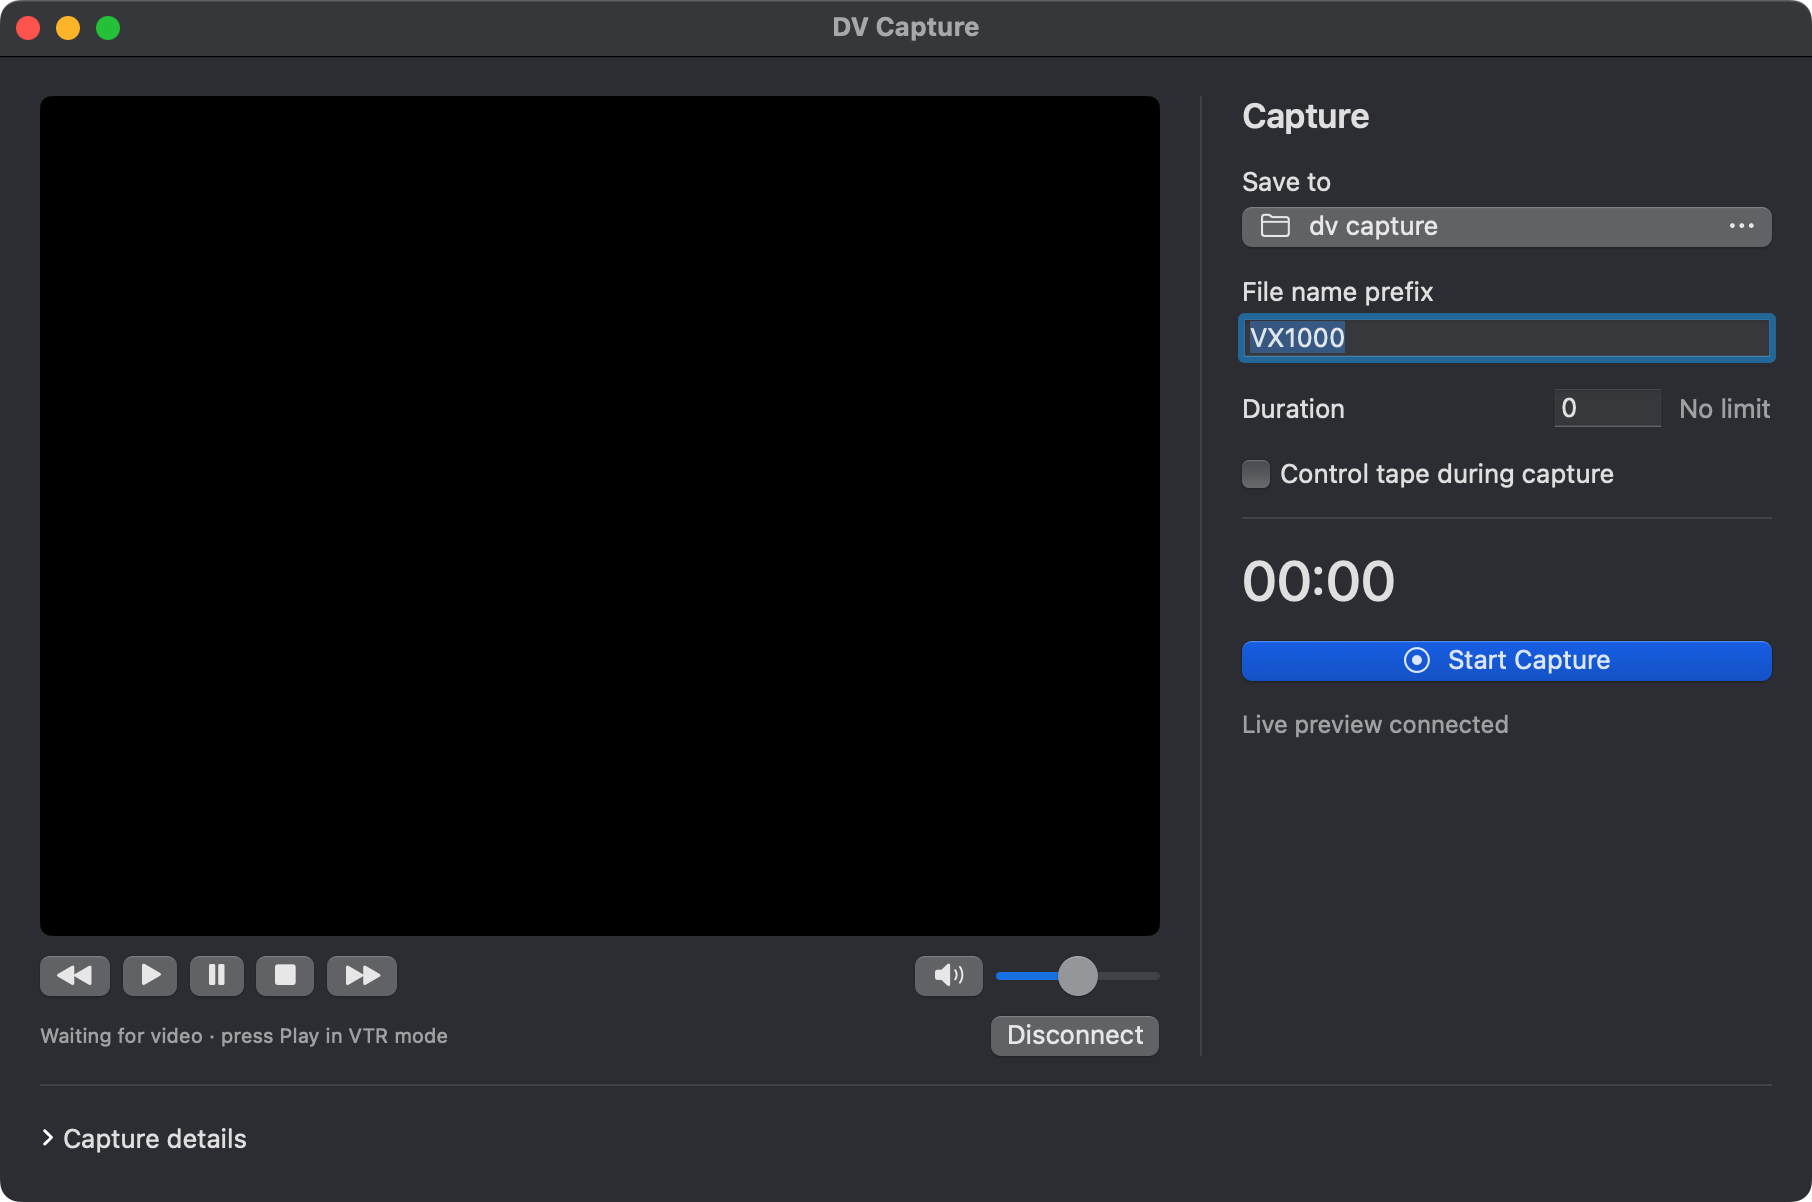
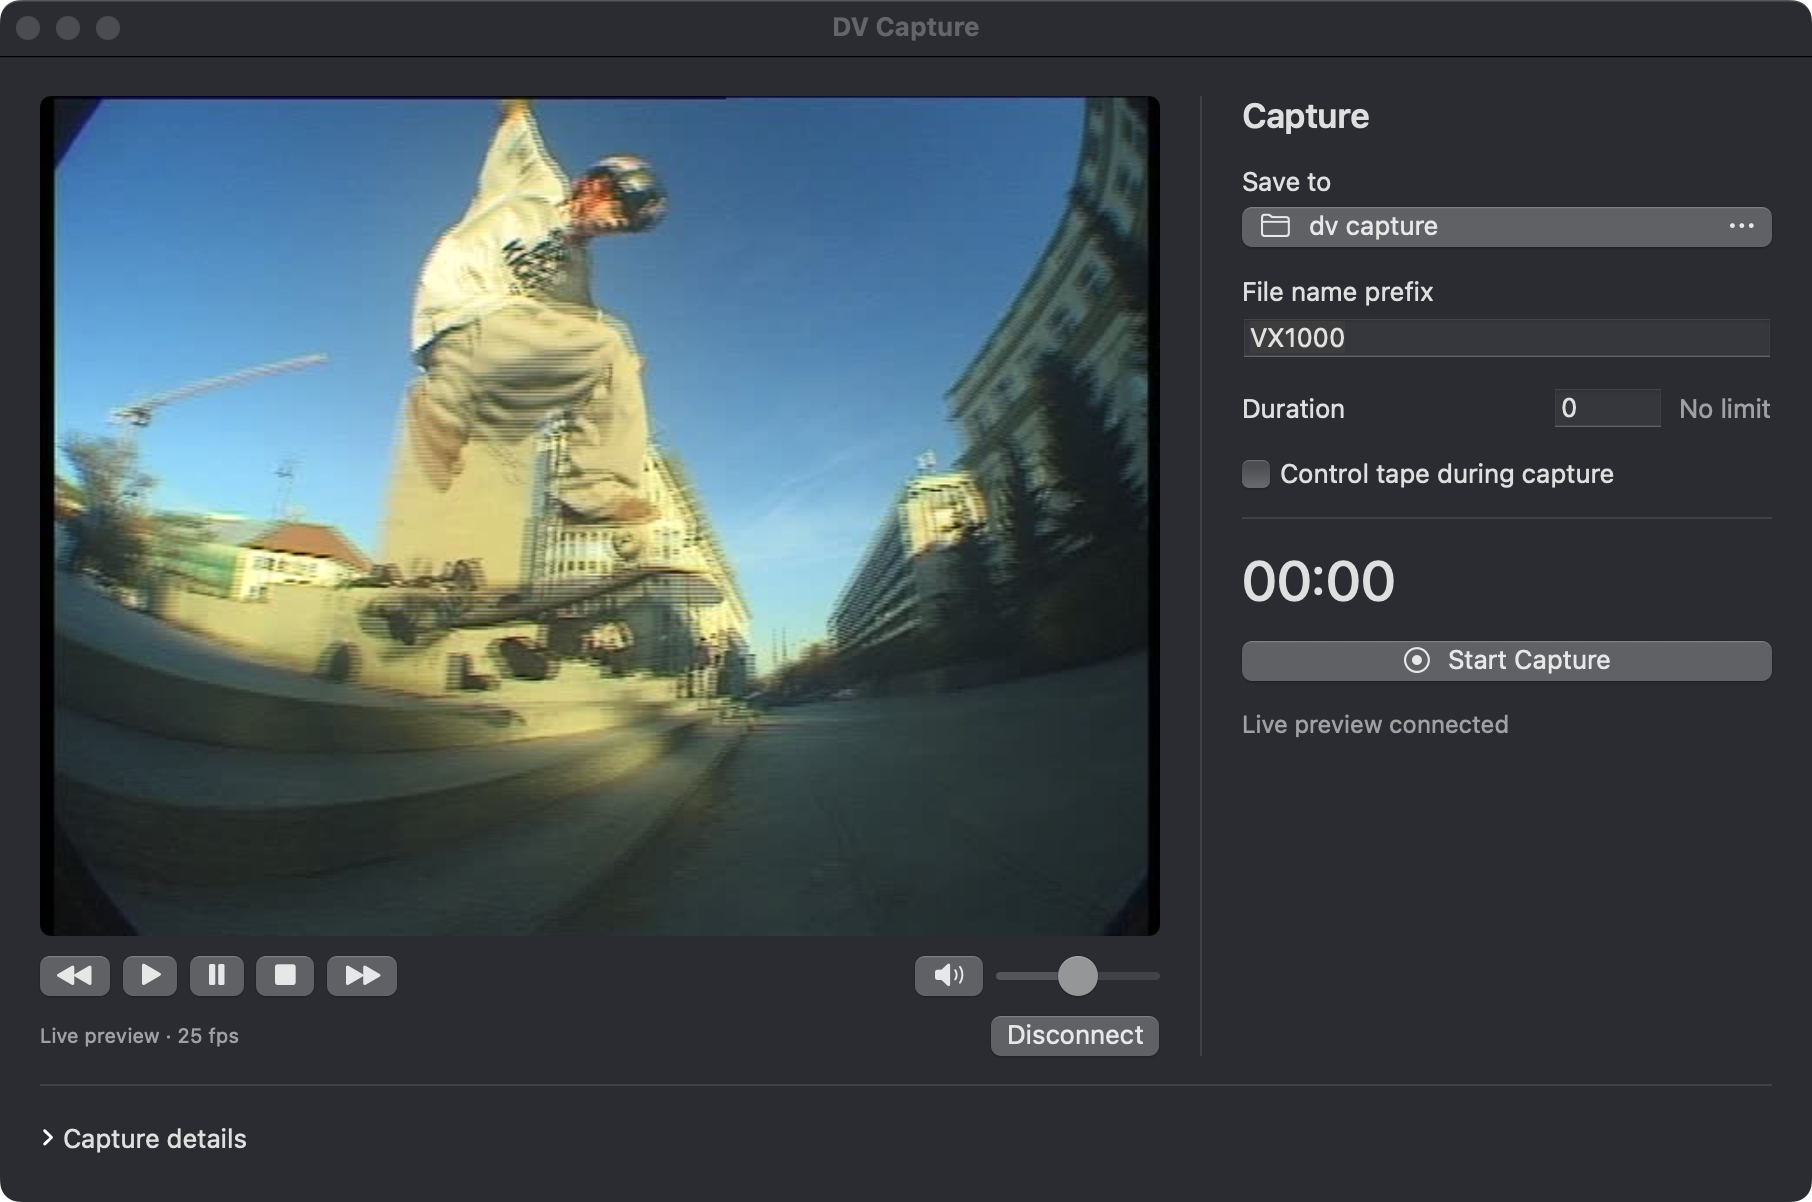
Release 1.8.1 with a fixed live preview layout

diff --git a/DVCapture.swift b/DVCapture.swift
@@ -16,6 +16,9 @@ struct NativePreview: NSViewRepresentable {
         view.image = surface.image; surface.view = view
         return view
     }
+    func sizeThatFits(_ proposal: ProposedViewSize, nsView: NSImageView, context: Context) -> CGSize? {
+        proposal.replacingUnspecifiedDimensions(by: .zero)
+    }
     func updateNSView(_ view: NSImageView, context: Context) {}
 }
 
@@ -533,14 +536,13 @@ struct CaptureView: View {
                     }.frame(height: 100)
                 }
             }
-        }.padding(20)
+        }.frame(width: 866).padding(20)
     }
 
     private var previewPanel: some View {
         VStack(spacing: 10) {
             ZStack {
-                Color.black
-                NativePreview(surface: model.previewSurface)
+                Color.black.overlay { NativePreview(surface: model.previewSurface) }
                 if !model.previewing {
                     Button("Start Live Preview") { model.startLive() }
                         .disabled(model.busy)

diff --git a/README.md b/README.md
@@ -1,8 +1,8 @@
 # DV Capture
 
-A small native macOS app for capturing DV camcorders over FireWire, with live video/audio preview and tape transport controls. Current app version: **1.8**.
+A small native macOS app for capturing DV camcorders over FireWire, with live video/audio preview and tape transport controls. Current app version: **1.8.1**.
 
-![DV Capture 1.8 with a connected preview waiting for video, tape controls on the left, and capture settings on the right](docs/images/dv-capture.png)
+![DV Capture 1.8.1 showing skateboarding footage above the tape controls, with capture settings on the right](docs/images/dv-capture.png)
 
 ## Features
 
